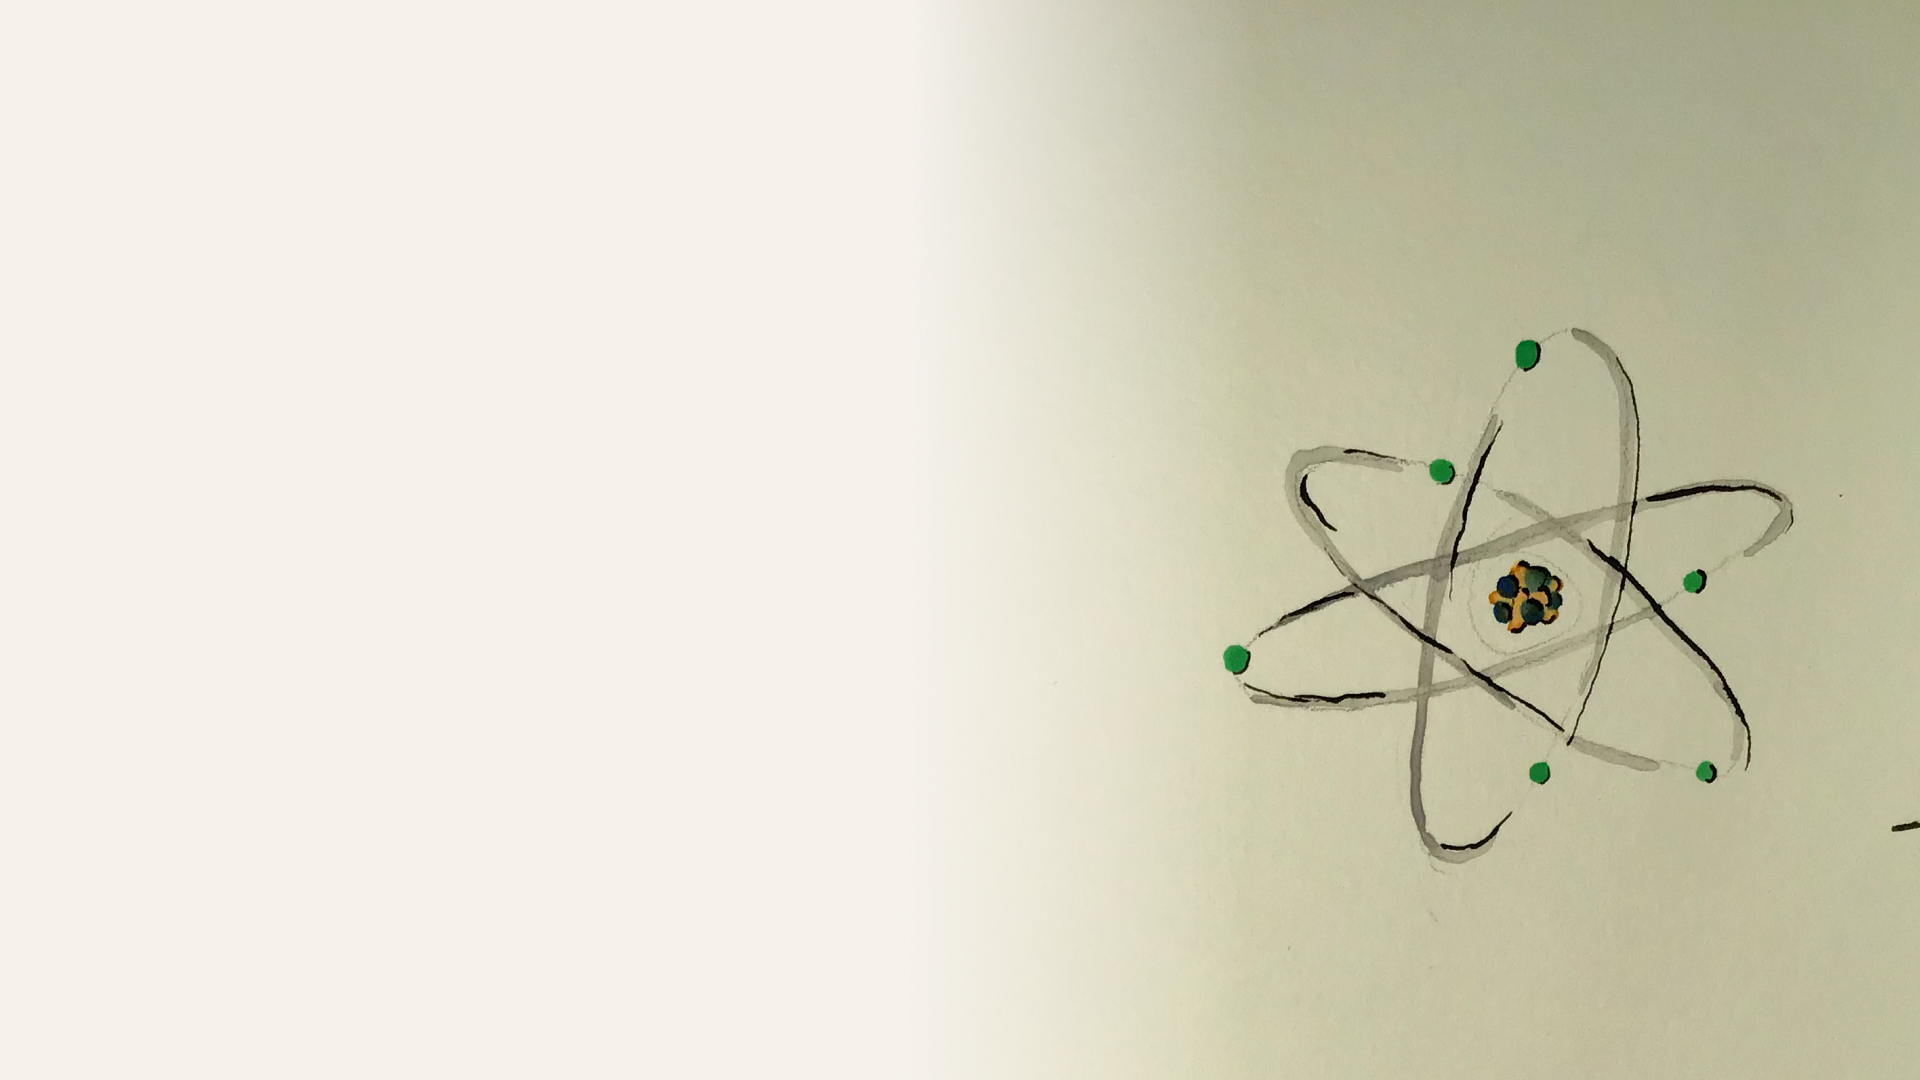
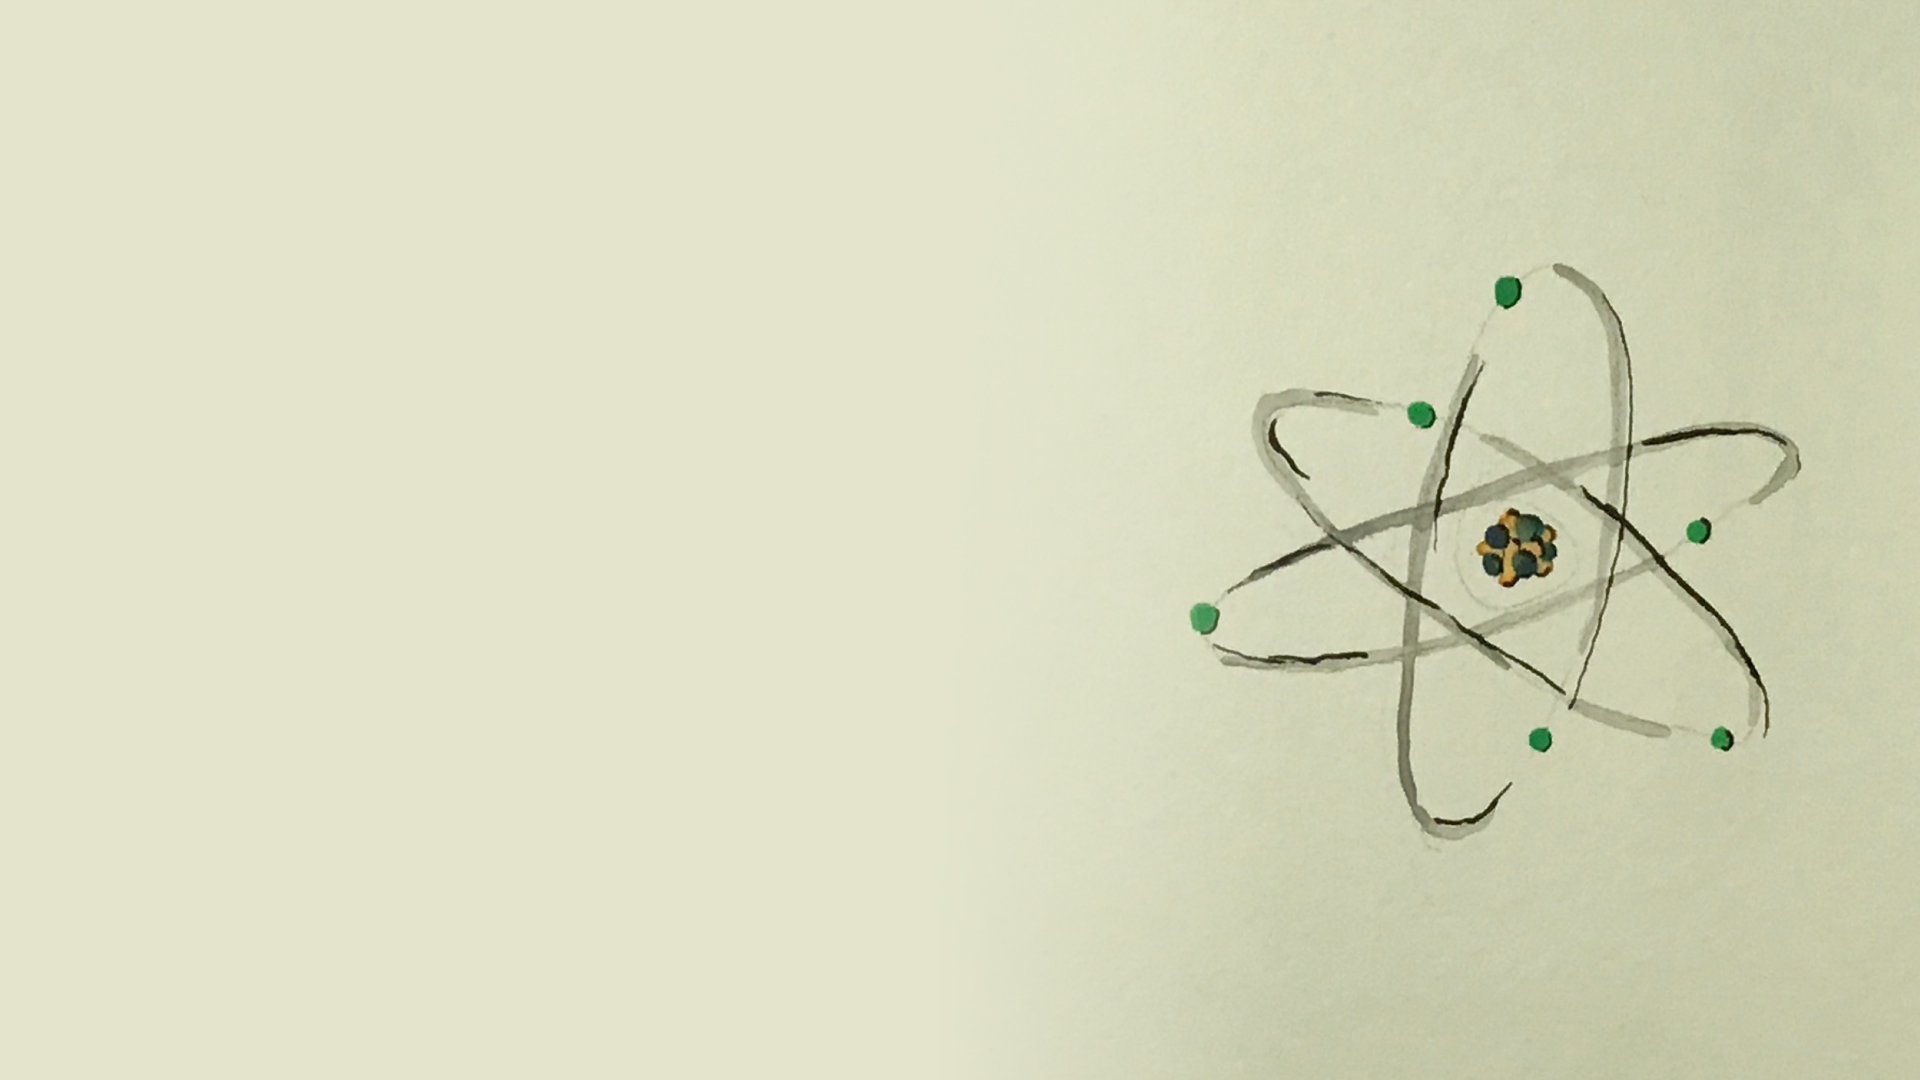
add all the drawings

diff --git a/src/theme.css b/src/theme.css
@@ -134,3 +134,8 @@ li strong {
   font-weight: inherit;
   color: var(--heading-strong-color);
 }
+
+blockquote strong {
+  font-weight: inherit;
+  color: var(--heading-strong-color);
+}

diff --git a/src/index.md b/src/index.md
@@ -6,7 +6,7 @@ footer: '@pepopowitz | pull-requests.stevenhicks.me'
 
 <!-- _class: title -->
 
-![bg opacity:70%](images/cover.jpg)
+![bg opacity:80%](images/cover.jpg)
 
 # Working Effectively<br/>With Pull Requests
 
@@ -196,7 +196,7 @@ an opportunity to share knowledge
 
 <!-- _header: "**1: What even is a PR?** | 2 | 3 | 4 | 5 | 6 "  -->
 
-![bg opacity:50%](images/aside-pr-symbols.jpg)
+![bg opacity:80%](images/aside-pr-symbols.jpg)
 
 # This is a <br/> **Pull Request (PR)** <br/> talk.
 
@@ -208,6 +208,8 @@ an opportunity to share knowledge
 ---
 
 <!-- _header: "**1: What even is a PR?** | 2 | 3 | 4 | 5 | 6 "  -->
+
+![bg opacity:80%](images/aside-flower.jpg)
 
 # This is a <br/> ~~Pull Request (PR)~~ <br/> **culture** talk.
 
@@ -229,6 +231,8 @@ an opportunity to share knowledge
 ---
 
 <!-- _header: "1 | **2: Ground rules.** | 3 | 4 | 5 | 6 "  -->
+
+![bg opacity:80%](images/aside-thinking.jpg)
 
 # Practice **curiosity** <br/> over judgement.
 
@@ -259,6 +263,8 @@ We can't just magically wave our hands and say "this is now a safe space, you sh
 
 <!-- _header: "1 | **2: Ground rules.** | 3 | 4 | 5 | 6 "  -->
 
+![bg opacity:80%](images/aside-uncle-sam.jpg)
+
 # **Act** with compassion.
 
 1. Act with positive intent.
@@ -282,7 +288,7 @@ and it also means enforcing psychological safety by calling out bad acts
 
 <!-- _header: "1 | **2: Ground rules.** _Act with compassion._ | 3 | 4 | 5 | 6 "  -->
 
-TODO: image (carrots in a garden)
+![bg opacity:80%](images/carrots.jpg)
 
 <!--
 I said this is a talk about culture, and I want to share my favorite analogy
@@ -310,7 +316,9 @@ Calling out bad acts in pull request reviews is a small but important contributi
 
 <!-- _header: "1 | **2: Ground rules.** | 3 | 4 | 5 | 6 "  -->
 
-# Be aware of **power dynamics**.
+![bg opacity:80%](images/aside-talk-down.jpg)
+
+# Be aware of <br/>**power dynamics**.
 
 <!--
 Power dynamics have a huge impact on collaboration, especially in the interpretation of ambiguous communication.
@@ -390,6 +398,8 @@ Feedback from the strong side takes on a very heavy weight. That weight can easi
 
 <!-- _header: "1 | **2: Ground rules.** | 3 | 4 | 5 | 6 "  -->
 
+![bg opacity:80%](images/aside-communication.jpg)
+
 # **Communicate** effectively.
 
 <!--
@@ -419,7 +429,7 @@ Example: me saying "what do you think about..." when I meant "we should do make 
 -->
 
 <!-- prettier-ignore -->
-1) Use clear, concise, and unambiguous language.
+1) Use clear, concise, and <br/>unambiguous language.
 
 <!-- prettier-ignore -->
 2) Ask clarifying questions.
@@ -477,7 +487,7 @@ giving the reader enough to go on so that they don't need to ask questions.
 
 <!-- _header: "1 | **2: Ground rules.** _Communicate effectively asynchronously._ | 3 | 4 | 5 | 6 "  -->
 
-todo: image of poor text exchange
+![bg](images/full-text-convo.jpg)
 
 <!--
 
@@ -545,6 +555,8 @@ Example: checklist in screenshot!
 
 <!-- _header: "1 | 2 | **3: The work before the work.** _Configure for collaboration._ | 4 | 5 | 6 "  -->
 
+![bg opacity:80%](images/aside-robot.jpg)
+
 ## **Automate** the automatable.
 
 <!--
@@ -563,6 +575,8 @@ Ex: Amarabot to identify missing duplication in versions
 
 <!-- _header: "1 | 2 | **3: The work before the work.** | 4 | 5 | 6 "  -->
 
+![bg opacity:80%](images/aside-toothbrush.jpg)
+
 # Practice good commit **hygiene**.
 
 <!--
@@ -573,7 +587,7 @@ on the code side of things
 
 <!-- _header: "1 | 2 | **3: The work before the work.** _Practice good commit hygiene._ | 4 | 5 | 6 "  -->
 
-![bg opacity:50%](images/aside-atom.jpg)
+![bg opacity:80%](images/aside-atom.jpg)
 
 ## Good commits are **atomic**.
 
@@ -697,6 +711,8 @@ If you can't, at the very least practice good commit hygiene so that reviewers m
 
 <!-- _header: "1 | 2 | 3 | **4: Good pull requests.** | 5 | 6 "  -->
 
+![bg opacity:80%](images/aside-loading.jpg)
+
 # Good PRs **show progress**.
 
 <!-- prettier-ignore -->
@@ -732,6 +748,8 @@ I give you this advice knowing full well that it is my own biggest struggle
 
 <!-- _header: "1 | 2 | 3 | **4: Good pull requests.** _Show progress._ | 5 | 6 "  -->
 
+![bg opacity:80%](images/aside-rubiks.jpg)
+
 ## Perfect is the **enemy of good**.
 
 <!--
@@ -748,6 +766,8 @@ When it comes to PRs, perfection might be getting in the way of shipping things.
 
 <!-- _header: "1 | 2 | 3 | **4: Good pull requests.** | 5 | 6 "  -->
 
+![bg opacity:80%](images/aside-clues.jpg)
+
 # Good PRs **provide context**.
 
 <!--
@@ -761,6 +781,8 @@ One rule to live by ...
 ---
 
 <!-- _header: "1 | 2 | 3 | **4: Good pull requests.** _Provide context._ | 5 | 6 "  -->
+
+![bg opacity:80%](images/aside-donkey.jpg)
 
 ## Don't **assume** prior knowledge.
 
@@ -831,7 +853,9 @@ todo: screenshot of lines explanation
 
 <!-- _header: "1 | 2 | 3 | **4: Good pull requests.** | 5 | 6 "  -->
 
-# Good PRs **spread knowledge**.
+![bg opacity:80%](images/aside-spread.jpg)
+
+# Good PRs <br/>**spread knowledge**.
 
 <!--
 
@@ -882,6 +906,8 @@ what cool dev tool features did I learn about while testing this?
 ---
 
 <!-- _header: "1 | 2 | 3 | **4: Good pull requests.** | 5 | 6 "  -->
+
+![bg opacity:80%](images/aside-turn-signal.jpg)
 
 # Good PRs **radiate intent**.
 
@@ -960,13 +986,17 @@ on an epic level, what is included in this feature?
 
 <!-- _header: "1 | 2 | 3 | 4 | **5: Good PR reviews.** | 6 "  -->
 
+![bg opacity:80%](images/aside-communication.jpg)
+
 # Good reviews <br/>**communicate effectively**.
 
 ---
 
 <!-- _header: "1 | 2 | 3 | 4 | **5: Good PR reviews.** _Communicate effectively._ | 6 "  -->
 
-## Be respectful.
+![bg opacity:80%](images/aside-shake-hands.jpg)
+
+## Be **respectful**.
 
 <!--
 
@@ -980,9 +1010,9 @@ I don't think I need to explain this any further
 
 ## Be direct.
 
-> "What do you think about doing X instead of Y?"
+> "**What do you think** about doing X instead of Y?"
 
-> "I think we should X instead of Y, because Z."
+> "I think **we should do** X instead of Y, because Z."
 
 <!--
 
@@ -1068,6 +1098,8 @@ I will recommend this gif plugin
 ---
 
 <!-- _header: "1 | 2 | 3 | 4 | **5: Good PR reviews.** | 6 "  -->
+
+![bg opacity:80%](images/aside-bachelor.jpg)
 
 # Good reviews <br/>request changes <br/> **for the right reasons**.
 
@@ -1194,9 +1226,9 @@ If there's a reason something needs to change, give them information about why
 
 <!-- _header: "1 | 2 | 3 | 4 | **5: Good PR reviews.** | 6 "  -->
 
-![bg opacity:50%](images/aside-directions.jpg)
+![bg opacity:80%](images/aside-directions.jpg)
 
-# Good reviews **give direction**.
+# Good reviews <br/>**give direction**.
 
 ---
 
